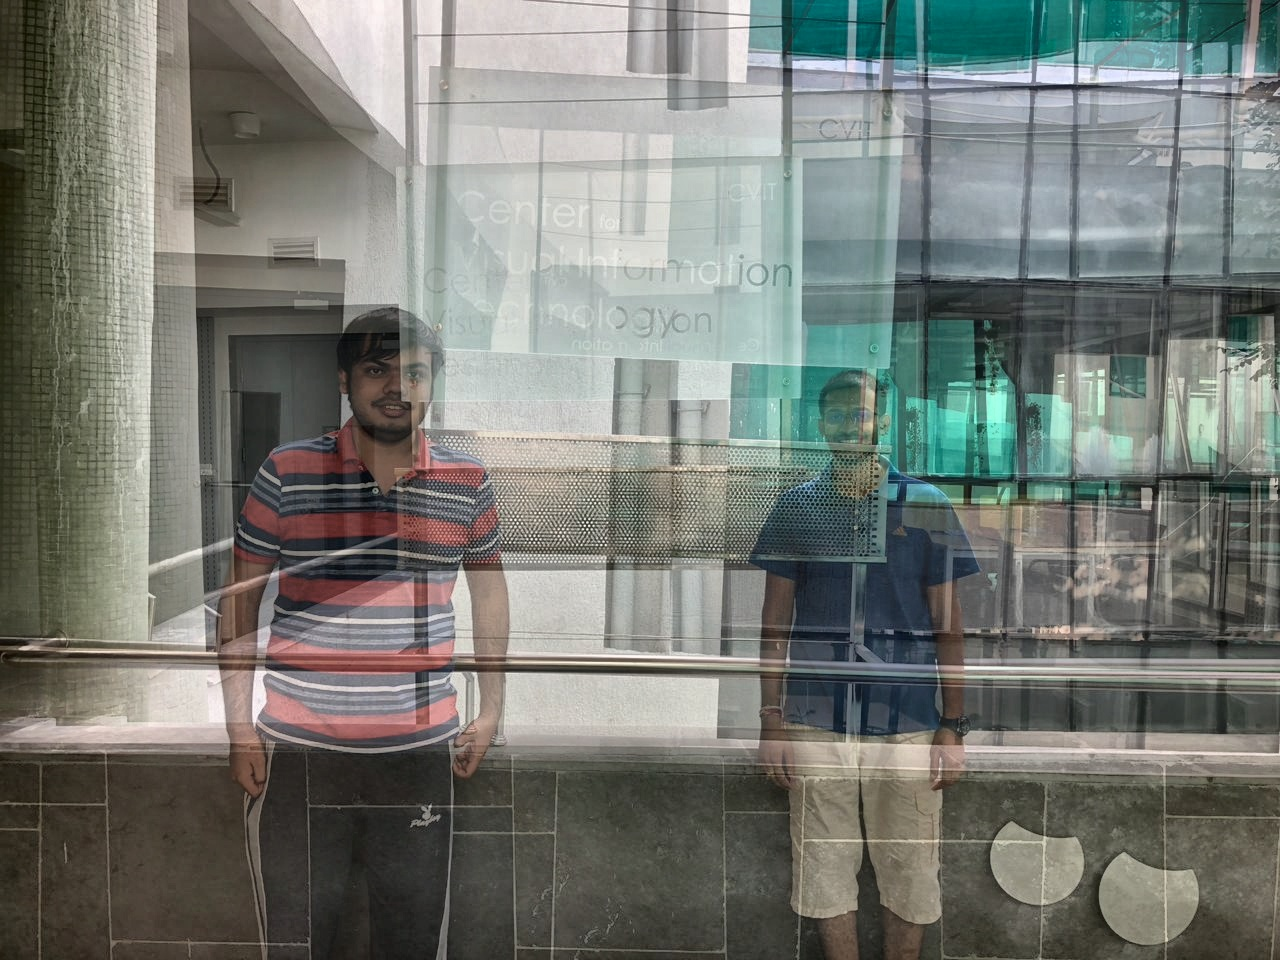
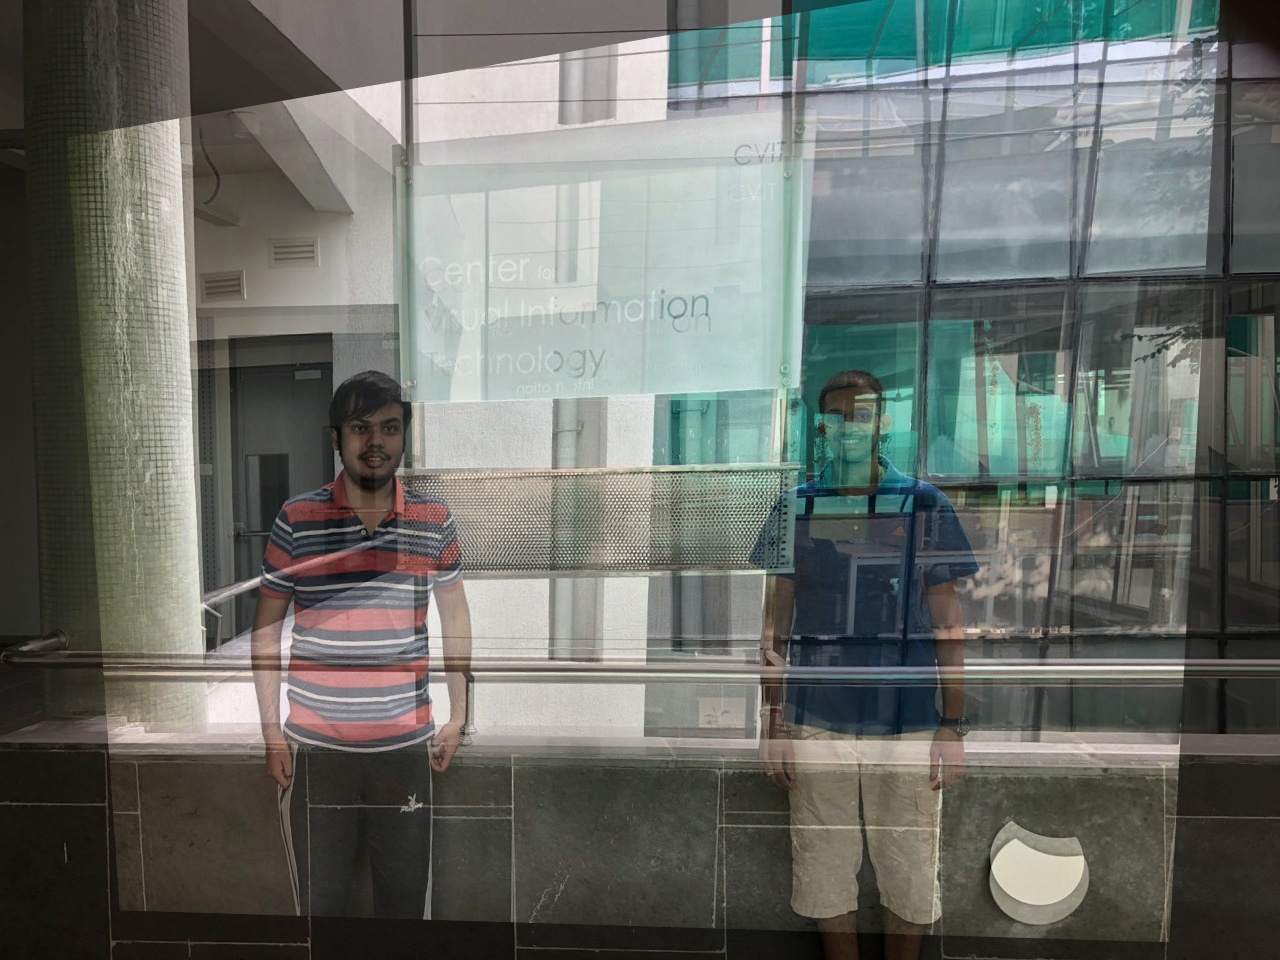
Added function to find homography between two images in util

diff --git a/lib/util.py b/lib/util.py
@@ -43,11 +43,17 @@ def keypoints_orb_descriptor(img, kp, n=1000):
 	kp, des = orb.compute(img, kp)
 	return kp, des
 
-def keypoint_bf_matcher(des1, des2, n=50):
+def keypoint_bf_matcher(des1, des2, n=4):
 	bf = cv2.BFMatcher(cv2.NORM_HAMMING, crossCheck=True)
 	matches = bf.match(des1,des2)
 	matches = sorted(matches, key = lambda x:x.distance)
-	return matches[0:n]
+	min_dist = matches[0].distance	
+	for i in range(len(matches)):
+		print (matches[i].distance)	
+		if matches[i].distance > n*min_dist:
+			break
+	print (i)
+	return matches[0:37]
 
 def extract_matched_points(dmatches, kpts1, kpts2):
 	src_pts  = np.float32([kpts1[m.queryIdx].pt for m in dmatches]).reshape(-1,1,2)
@@ -93,4 +99,33 @@ def transform_points(pt1, homography_matrix):
 	new_points = cv2.perspectiveTransform(pt1, homography_matrix)
 	new_points = new_points.reshape((new_points.shape[0], new_points.shape[2]))
 	return new_points
+
+def homography_warp(Image_1, Image_2):
+	x,y,_ = Image_1.shape
+	Image_2 = cv2.resize(Image_2,(y,x))
+
+	Image_1 = lab_contrast(Image_1)
+	Image_2 = lab_contrast(Image_2)
+
+	keypoints_1 = keypoints_orb_detector(Image_1,10000)
+	keypoints_2 = keypoints_orb_detector(Image_2,10000)
+
+	body_1 = detect_body(Image_1)
+	body_2 = detect_body(Image_2)
+
+	keypoints_valid_1 = valid_keypoints(body_1,body_2,keypoints_1)
+	keypoints_valid_2 = valid_keypoints(body_1,body_2,keypoints_2)
+
+	_, descriptor1  = keypoints_orb_descriptor(Image_1,keypoints_valid_1, 10000)
+	_, descriptor2  = keypoints_orb_descriptor(Image_2,keypoints_valid_2, 10000)
+
+	keypoint_matches = keypoint_bf_matcher(descriptor1, descriptor2, 2)
+
+	source_points, destination_points = extract_matched_points(keypoint_matches, keypoints_valid_1, keypoints_valid_2)
+
+	homography_matrix = calculate_homography_matrix(source_points,  destination_points)
+
+	homography_warped_1 = warp_perspective(Image_1.copy(), homography_matrix)
+	return homography_warped_1
+
 

diff --git a/main_2.py b/main_2.py
@@ -6,39 +6,7 @@ from lib.util import *
 #check
 Image_1 = cv2.imread("data/1.jpg")
 Image_2 = cv2.imread("data/2.jpg")
-
-x,y,_ = Image_1.shape
-Image_2 = cv2.resize(Image_2,(y,x))
-
-Image_1 = lab_contrast(Image_1)
-Image_2 = lab_contrast(Image_2)
-
-keypoints_1 = keypoints_orb_detector(Image_1,10000)
-keypoints_2 = keypoints_orb_detector(Image_2,10000)
-
-body_1 = detect_body(Image_1)
-body_2 = detect_body(Image_2)
-
-keypoints_valid_1 = valid_keypoints(body_1,body_2,keypoints_1)
-keypoints_valid_2 = valid_keypoints(body_1,body_2,keypoints_2)
-
-_, descriptor1  = keypoints_orb_descriptor(Image_1,keypoints_valid_1, 10000)
-_, descriptor2  = keypoints_orb_descriptor(Image_2,keypoints_valid_2, 10000)
-
-keypoint_matches = keypoint_bf_matcher(descriptor1, descriptor2, 37)
-
-source_points, destination_points = extract_matched_points(keypoint_matches, keypoints_valid_1, keypoints_valid_2)
-
-homography_matrix = calculate_homography_matrix( destination_points, source_points)
-
-homography_warped_1 = warp_perspective(Image_2.copy(), homography_matrix)
-'''
-top_left_x1,top_left_y1,bot_right_x1,bot_right_y1=body_2[0]
-pt1 = np.float32([[[top_left_x1, top_left_y1]],[[bot_right_x1, top_left_y1]],[[top_left_x1, bot_right_y1]] ,[[bot_right_x1,bot_right_y1]]])
-
-new_points = transform_points(pt1, homography_matrix)
-op_image = draw_keypoints(homography_warped_1, new_points)
-'''
-op_image = 0.5*Image_1 + 0.5*Image_2
+homography_warped_1 = homography_warp(Image_1, Image_2)
+op_image = 0.5*Image_2 + 0.5*homography_warped_1
 cv2.imwrite("./data/alpha_blend2.jpg", op_image)
 
